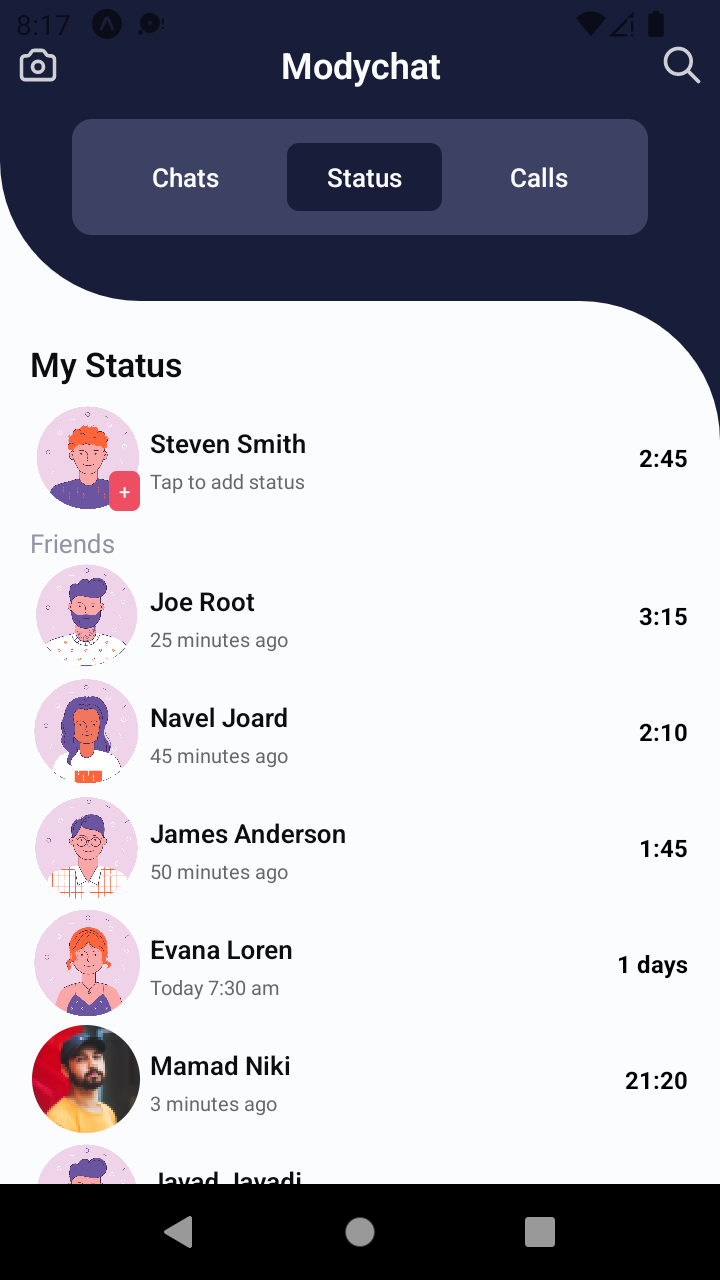
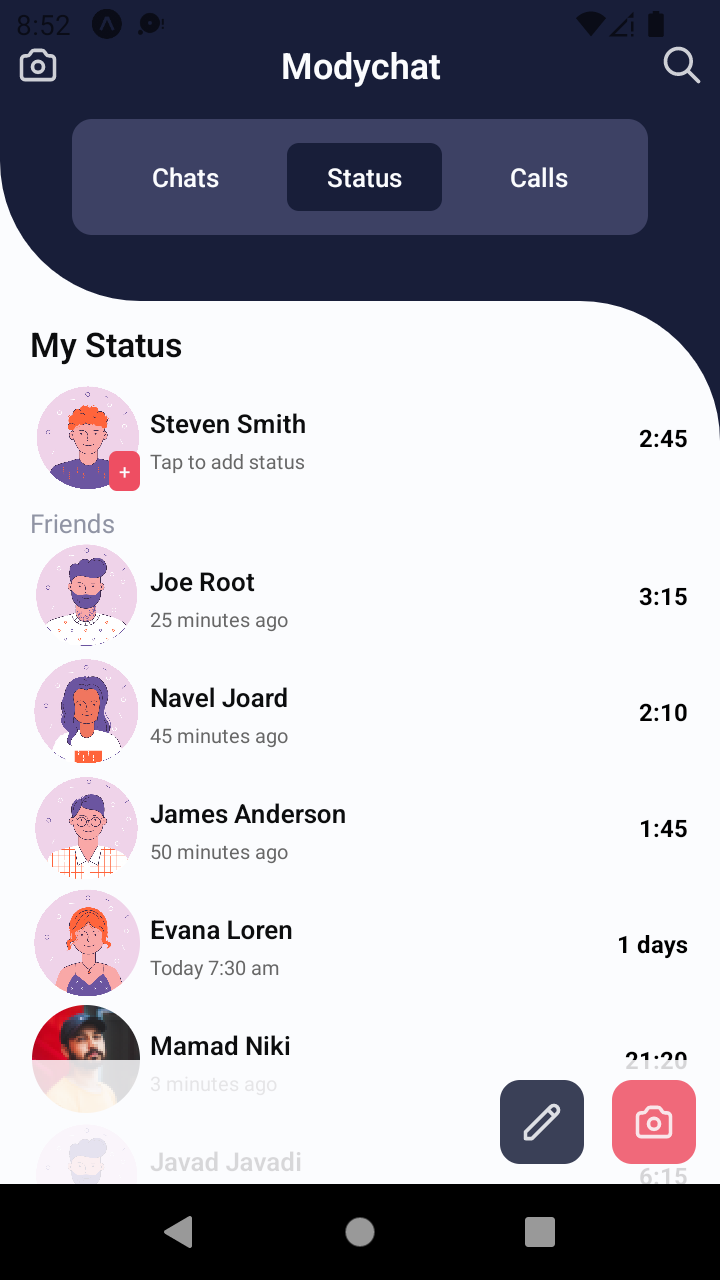
status component

diff --git a/Components/StatusComponent.js b/Components/StatusComponent.js
@@ -2,11 +2,11 @@ import { ScrollView, StyleSheet, Text, TouchableOpacity, View } from 'react-nati
 import React from 'react'
 import PersonRow from './PersonRow'
 import colors from '../assets/colors/colors'
-
+import {CameraIcon, PencilIcon} from 'react-native-heroicons/outline'
 const StatusComponent = () => {
   return (
     <View style={{flex: 8/10,backgroundColor: colors.white, borderTopRightRadius: 70}}>
-          <View style={{paddingTop: 20, paddingHorizontal:15}}>
+          <View style={{paddingTop: 10, paddingHorizontal:15}}>
             <Text style={{color: colors.black, fontSize: 17, fontWeight: '600'}}>My Status</Text>
             <View style={{top: 8}}>
               <TouchableOpacity>
@@ -23,11 +23,11 @@ const StatusComponent = () => {
             </View>
           </View>
 
-          <View style={{flex: 1,paddingTop: 15, paddingHorizontal:15,}}>
+          <View style={{flex: 1,paddingTop: 15, paddingHorizontal:15}}>
             <Text style={{color: colors.lightGray, fontSize: 13, fontWeight: '400'}}>Friends</Text>
             <ScrollView
             showsVerticalScrollIndicator={false}
-            contentContainerStyle={{}}
+            contentContainerStyle={{paddingBottom: 70}}
             >
               {sampleData.friends.map(item=>(
                   <TouchableOpacity key={item.id} style={{marginBottom: 4}}>
@@ -41,10 +41,36 @@ const StatusComponent = () => {
               ))}
             </ScrollView>
           </View>
+
+          {/* Bottom nav */}
+          <View style={{opacity: 0.85,position: 'absolute',width: '100%', bottom: 0,backgroundColor: colors.white}}>
+            <View style={{display: 'flex', flexDirection: 'row', alignItems: 'center', justifyContent:'flex-end', marginRight: 5, paddingVertical:10}}>
+                <TouchableOpacity>
+                    <View style={[{padding: 10, backgroundColor: colors.darkBlue, borderRadius: 10, marginHorizontal:7}, styles.shadow]}>
+                        <PencilIcon color={colors.white} size={22}/>
+                    </View>
+                </TouchableOpacity>
+                <TouchableOpacity>
+                    <View style={[{padding: 10, backgroundColor: colors.red, borderRadius: 10, marginHorizontal: 7}, styles.shadow]}>
+                        <CameraIcon color={colors.white} size={22}/>
+                    </View>
+                </TouchableOpacity>
+            </View>
+          </View>
       </View>
   )
 }
 
 export default StatusComponent
 
-const styles = StyleSheet.create({})
+const styles = StyleSheet.create({
+    shadowColor: colors.red,
+    shadowOffset: {
+        width: 0,
+        height: 12,
+    },
+    shadowOpacity: 0.58,
+    shadowRadius: 16.00,
+    
+    elevation: 24,
+})

diff --git a/Components/CallComponent.js b/Components/CallComponent.js
@@ -6,7 +6,7 @@ import colors from '../assets/colors/colors'
 const CallComponent = () => {
   return (
     <View style={{flex: 8/10,backgroundColor: colors.white, borderTopRightRadius: 70}}>
-    <View style={{paddingTop: 20, paddingHorizontal:15}}>
+    <View style={{paddingTop: 10, paddingHorizontal:15}}>
       <Text style={{color: colors.black, fontSize: 17, fontWeight: '600'}}>My Status</Text>
       <View style={{top: 8}}>
         <TouchableOpacity>

diff --git a/Components/ChatComponent.js b/Components/ChatComponent.js
@@ -6,7 +6,7 @@ import colors from '../assets/colors/colors'
 const ChatComponent = () => {
   return (
     <View style={{flex: 8/10,backgroundColor: colors.white, borderTopRightRadius: 70}}>
-    <View style={{paddingTop: 20, paddingHorizontal:15}}>
+    <View style={{paddingTop: 10, paddingHorizontal:15}}>
       <Text style={{color: colors.black, fontSize: 17, fontWeight: '600'}}>My Status</Text>
       <View style={{top: 8}}>
         <TouchableOpacity>
